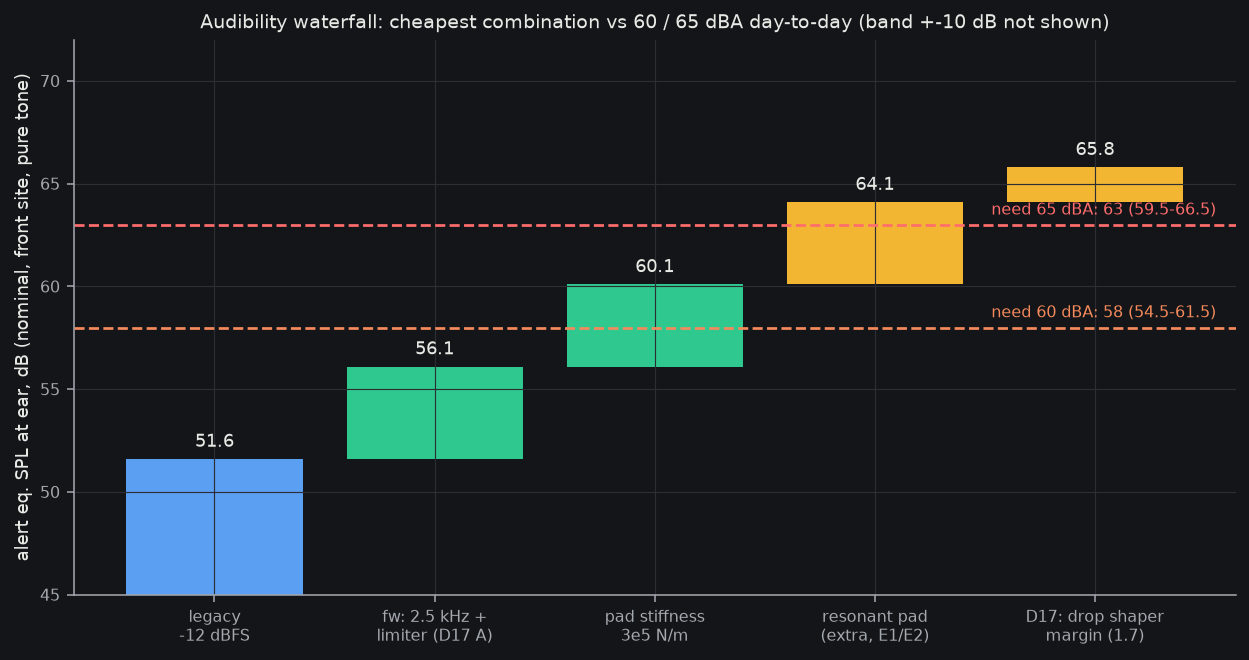
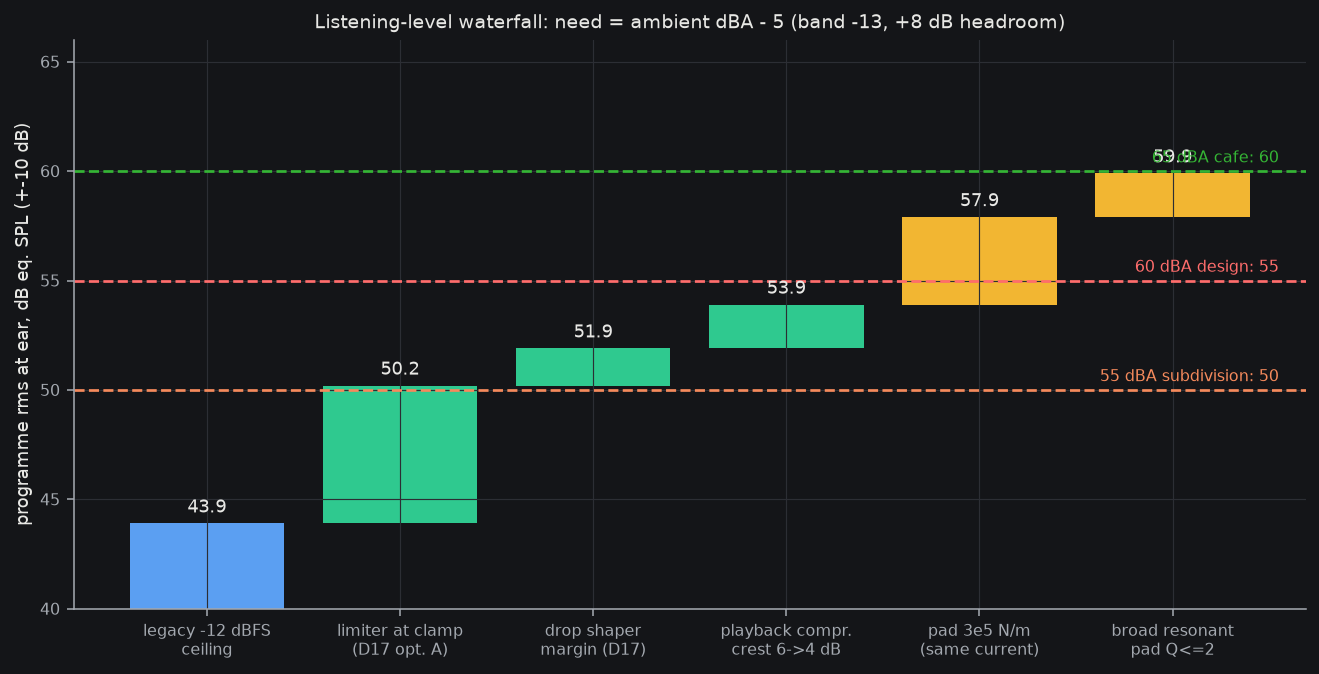
Audibility requirement reframed to audio playback: clean listening level vs ambient, headroom target, combination
Claude-Session: https://claude.ai/code/session_01Wg997D6KFs8bxoAH56jZZJ

Changed region(s): [[0.0, 0.0606, 0.9992, 0.9697], [0.1561, 0.0, 0.8743, 0.0606]]

diff --git a/docs/proof/electrical/audibility_waterfall.py b/docs/proof/electrical/audibility_waterfall.py
@@ -1,16 +1,16 @@
-"""dB waterfall: delivered alert eq. SPL (front site, nominal, pure tone) vs required for 60/65 dBA. Numbers: audibility-requirement.md."""
+"""dB waterfall for AUDIO PLAYBACK (programme rms at the ear, eq. SPL, nominal front site, 2.5 kHz-class). Numbers: audibility-requirement.md."""
 import sys, pathlib
 sys.path.insert(0, str(pathlib.Path(__file__).parents[3] / "tools"))
 import plotstyle; plotstyle.apply(); from plotstyle import plt, SERIES, TEXT, TEXT_2
-steps = [("legacy\n-12 dBFS", 51.6), ("fw: 2.5 kHz +\nlimiter (D17 A)", 4.5), ("pad stiffness\n3e5 N/m", 4.0), ("resonant pad\n(extra, E1/E2)", 4.0), ("D17: drop shaper\nmargin (1.7)", 1.7)]
-fig, ax = plt.subplots(figsize=(9, 4.8)); cum = 0; x = 0
+steps = [("legacy -12 dBFS\nceiling", 43.9), ("limiter at clamp\n(D17 opt. A)", 6.3), ("drop shaper\nmargin (D17)", 1.7), ("playback compr.\ncrest 6->4 dB", 2.0), ("pad 3e5 N/m\n(same current)", 4.0), ("broad resonant\npad Q<=2", 2.0)]
+fig, ax = plt.subplots(figsize=(9.5, 4.9)); cum = 0
 for i, (n, v) in enumerate(steps):
     if i == 0: ax.bar(i, v, color=SERIES[0]); cum = v
-    else: ax.bar(i, v, bottom=cum, color=SERIES[2] if i < 3 else SERIES[3]); cum += v
-    ax.text(i, cum + .6, f"{cum:.1f}", ha="center", color=TEXT, fontsize=9)
-for lvl, lab, c in ((58, "need 60 dBA: 58 (54.5-61.5)", SERIES[1]), (63, "need 65 dBA: 63 (59.5-66.5)", SERIES[7])):
-    ax.axhline(lvl, color=c, ls="--"); ax.text(len(steps) - .45, lvl + .5, lab, color=c, ha="right", fontsize=8)
+    else: ax.bar(i, v, bottom=cum, color=SERIES[2] if i < 4 else SERIES[3]); cum += v
+    ax.text(i, cum + .5, f"{cum:.1f}", ha="center", color=TEXT, fontsize=9)
+for lvl, lab, c in ((50, "55 dBA subdivision: 50", SERIES[1]), (55, "60 dBA design: 55", SERIES[7]), (60, "65 dBA cafe: 60", SERIES[5])):
+    ax.axhline(lvl, color=c, ls="--"); ax.text(len(steps) - .45, lvl + .4, lab, color=c, ha="right", fontsize=8)
 ax.set_xticks(range(len(steps))); ax.set_xticklabels([s[0] for s in steps], fontsize=8, color=TEXT_2)
-ax.set_ylim(45, 72); ax.set_ylabel("alert eq. SPL at ear, dB (nominal, front site, pure tone)")
-ax.set_title("Audibility waterfall: cheapest combination vs 60 / 65 dBA day-to-day (band +-10 dB not shown)")
+ax.set_ylim(40, 66); ax.set_ylabel("programme rms at ear, dB eq. SPL (+-10 dB)")
+ax.set_title("Listening-level waterfall: need = ambient dBA - 5 (band -13, +8 dB headroom)")
 fig.tight_layout(); fig.savefig(pathlib.Path(__file__).with_name("audibility_waterfall.png"), dpi=140, facecolor=fig.get_facecolor())

diff --git a/docs/proof/electrical/audibility-requirement.md b/docs/proof/electrical/audibility-requirement.md
@@ -1,42 +1,46 @@
-# Audibility requirement: "audible in a subdivision and in day-to-day life" (2026-10-08)
-Owner ruling #3. All sources tagged [recall] = from memory, NOT re-fetched this session (no web check run); verify before citing outside the repo. Repo numbers [repo].
+# Audibility requirement for AUDIO PLAYBACK in day-to-day life (2026-10-08, rewritten after owner correction)
+Owner: "it's an audio device not an alert system." The device plays the shifted/compressed ultrasonic scene as listening audio (spec §1.1; DSP chain ends `volume -> safety ceiling` at 12.5 kS/s, spec L66). The 2-3 kHz alert-tone move (`alert_hz`) is system-sound only and is NOT counted here. Sources: [repo] = read today; [recall] = from memory, not re-fetched (no web check run), verify before external citation.
 
 ## 1. Requirement
-**Design ambient 60 dBA (daytime, A-weighted). Alert in-band level at the ear >= ambient band level + 12.5 dB. Delivered need = 58 dB eq. SPL central (band 54.5-61.5), pure-tone 2.5 kHz alert.** Stretch tier 65 dBA (cafe, car): need 63 (59.5-66.5). Busy arterial (70+ dBA) stays out of scope: not day-to-day for a subdivision walk; covered by the haptic option (I-010).
+**Design ambient 60 dBA (daytime). Programme (playback) rms at the ear >= ambient dBA - 5 = 55 dB eq. SPL, clean (THD+N <= -40 dB), central estimate, +-10 dB.** Stretch 65 dBA (cafe/shop): 60. Subdivision walk at 55 dBA: 50. Car (65-72) and arterial street are out of scope.
 
-| Place | Level (dBA) | Source |
-|---|---|---|
-| Residential outdoor, daytime, target | 55 Ldn/Leq (activity interference) | US EPA "Levels Document" 1974 (EPA 550/9-74-004) [recall] |
-| Same, WHO | 55 serious / 50 moderate annoyance, 16 h daytime outdoor | WHO Guidelines for Community Noise 1999 [recall] |
-| Subdivision with passing cars | 50-60 Leq, passing car 60-70 LAmax at ~10 m | typical measured; ISO 1996-1:2016 method [recall] |
-| Office | 45-55 (open plan to 60) | ASHRAE Handbook Applications ch.48 NC/RC tables; open-plan studies [recall] |
-| Cafe / shop | 60-70 | restaurant measurement studies (e.g. Rindel; Lombard-effect literature) [recall] |
-| Car interior, 90-110 km/h | 65-72 | cabin measurements, widely reported [recall] |
-=> 60 dBA covers subdivision + office + shop; 65 covers cafe/car. A pure-tone alert is far more detectable than the noise models here say (tone-in-noise masked threshold is band level -3..+3 dB, R-loudness-conflict item 5), so 12.5 over band is conservative.
-**Margin target 12.5 dB:** ISO 7731:2003 (danger signals for work places) wants the signal >= 13 dB above ambient A-level (>= 10 dB in octave bands) [recall]; the repo's 10-15 guidance is the same family [repo: loudness.md]. Band tilt: ambient band = dBA - 11 (proof, conservative) to -18 (traffic typical, B-loud); need = dBA + 1.5 (conservative) to dBA - 5.5. Central -13 gives 60 -> 58.
+Ambient places (dBA): residential outdoor day 50-55 (EPA Levels Document 1974, EPA 550/9-74-004; WHO Community Noise 1999: 55 serious / 50 moderate annoyance) [recall]; subdivision with passing cars 50-60 Leq, passing car 60-70 LAmax [recall, ISO 1996-1:2016 method]; office 45-55, open plan to 60 (ASHRAE Applications ch.48) [recall]; cafe/shop 60-70 (restaurant measurement studies, Lombard literature) [recall]; car 65-72 at highway speed [recall].
 
-## 2. Verdict re-run (loudness_fw.py chain + R-loudness-conflict corrected estimate)
-`loudness_fw.py` nominal, front site, band mean 2-3 kHz: legacy -12 dBFS 51.6 dB eq. SPL; after (tone 2.5 kHz + limiter at clamp) **56.1** (= conflict doc's 58 central minus the 1.7 dB shaper margin; band about 46-66).
-| Ambient | need (central, band) | fw-after margin (central, band) |
-|---|---|---|
-| 50 office | 52 (48-52.5) | +4 (-6 to +8) |
-| **60 design** | **58 (54.5-61.5)** | **-2 (-15 to +2)** |
-| 65 stretch | 63 (59.5-66.5) | -7 (-20 to -3) |
-| 70 street | 68 (64.5-71.5) | -12 (-25 to 0) |
-Firmware alone passes 50 dBA and fails 60. Bat chirps run 3-12 dB under pure-tone level [repo]; this requirement is the alert tone.
+**Listening headroom (replaces the 10-15 dB alert rule):** the programme must sit about +8 dB (range +4 to +10) over the ambient in the same 1.5-4 kHz band. Basis [recall]: preferred listening levels in noise sit about 6-10 dB over the background (Airo et al. 1996, Hodgetts et al. 2007 Ear & Hearing); real-life listening SNRs about +5 to +10 dB (Smeds et al. 2015 JAAA); sentence intelligibility is near ceiling by about +4 to +6 dB SNR (Plomp 1986; ANSI S3.5 SII). +4 = "follows it", +8 = target, +10 = enjoyable. Ambient in band = dBA - 13 (range -11 proof, -18 traffic typical). So need = dBA - 13 + 8 = **dBA - 5** (range dBA - 9 to dBA + 0).
 
-## 3. Cheapest combination (nominal chain; dB cumulative)
+## 2. Max CLEAN level at her ear (repo chain; central 2.5 kHz, nominal, front site)
+Force at the 208 mA clamp (0.635 of Vdd diff): 94.5 dB re 1 uN; corrected central eq. SPL **58** for a full-scale sine (R-loudness-conflict, band 48-68).
+| Ceiling | Peak (sine) eq. SPL | Programme rms (crest 6 dB; chirps are 3-12 dB under sine [repo]) | THD+N [repo C3-output-stage.md] |
+|---|---|---|---|
+| -12 dBFS (D17 now, 0.251) | 49.9 | **43.9** | -52 dB @12.5 ns dead time; -38 @25 ns (no compensation) |
+| limiter at clamp minus shaper excursion (0.520, D17 option A, `lim_lookahead=1`) | 56.3 | **50.3** | not modelled: model stops at -12 dBFS; signal current 2.1x larger, dead-time error grows with level (-61 @-40 dBFS to -52 @-12), my extrapolation -45 +-5 dB (assumed) |
+| clamp itself (0.635) | 58 | 52 | extrapolated -43 +-5 |
+"Clean" = THD+N <= -40 dB (assumed; the exciter's own distortion is likely larger, C3 note). It passes at 12.5 ns dead time, fails at 25 ns uncompensated at the ceiling (-38). Bench: THD at the clamp on the real bridge (E-series current probe + FFT), not modelled.
+
+## 3. Verdict vs ambient (programme rms, margin = delivered - need)
+| Ambient | Band | Need (+8; +4..+10) | Legacy -12 dBFS 43.9 | Limiter 50.3 |
+|---|---|---|---|---|
+| Quiet room 35 | 22 | 30 | +14 | +20 |
+| Office 50 | 37 | 45 (41-47) | -1 (+3..-3) | +5 (+9..+3) |
+| Subdivision 55 | 42 | 50 (46-52) | -6 (-2..-8) | **+0 (+4..-2)** |
+| **Design 60** | 47 | **55 (51-57)** | -11 | **-5 (-1..-7)** |
+| Cafe/shop 65 | 52 | 60 (56-62) | -16 | -10 (-6..-12) |
+Honest read: today's -12 dBFS ceiling gives quiet room and a quiet office only. The limiter makes office comfortable and a 55 dBA subdivision just adequate; 60 dBA and beyond need force-per-amp, not more current (current is pinned by the clamp and the THD ceiling).
+
+## 4. Cheapest combination (cumulative programme rms, central)
 ![waterfall](audibility_waterfall.png)
-| # | Step | dB | Cost | Size | Thermal (U4 LDO, cell at 208 mA clamp) | Bench |
+| # | Step | dB | Cost | Size | Thermal / battery | Bench |
 |---|---|---|---|---|---|---|
-| 0 | Baseline legacy -12 dBFS | 51.6 | 0 | 0 | n/a | none |
-| 1 | `lim_lookahead=1`, `alert_hz=2500` (fbfb38b; D17 option A, ceiling = clamp - shaper 0.5203) | +4.5 -> 56.1 | 0, firmware | 0 | 300 ms burst at clamp: U4 +0.3 to +3 K (tau assumed); continuous bound +33 K never reached; cell stays within the 260 mA pulse rule (clamp 208) | re-sign golden vectors + D17 ceiling (owner); U4 temp log (PWR-I12) |
-| 2 | Pad stiffness 3e5 N/m (loudness.md lever 3, model) | +4 -> 60.1 | ~0 (pad durometer/geometry) | 0 | none | E1 force vs drive on a 1 N preload fixture |
-| **= meets 60 dBA** | | **+2 central over need** | | | | **masked detection test on her (conflict doc)** |
-| 3 | Resonant pad/exciter tuned to 2-3 kHz (Q 1.5-8) | +4 more of 6-10 -> 64.1 | ~0 to small tooling | 0 | none (same current) | E1/E2 sweep; f0 of loaded pad |
-| 4 | D17: let limiter ceiling go to the clamp itself (drop 1.7 dB shaper margin) | +1.7 -> 65.8 | 0 | 0 | none (clamp unchanged) | prove shaper never exceeds clamp (fwsim) |
-=> **Meets 65 dBA at +2.8 central with steps 1+2+3+4; all free or near-free, zero size.**
-Rejected or deferred: raising the clamp to 270 mA (+2.3 dB) breaks the cell 260 mA rule; 12 ohm exciter gives no volume (loudness.md fix 2); BCE-1 swap (R-exciter): Bl unpublished, 0..+6 dB without basis, +1.4 mm thickness against O27 thin-first, buy one only for E1 Bl measurement; BCT-3 (+12.9 dB, 44x32 mm) does not fit; pad on tragus (conflict item 3): 0..+5 dB, comfort cost, D1 site change. Tragus 10 dB bonus and B-loud +15.5 dB are not supportable (conflict doc).
+| 0 | Legacy -12 dBFS | 43.9 | - | - | - | - |
+| 1 | `lim_lookahead=1` (fbfb38b; D17 option A) | +6.3 -> 50.2 | 0, fw | 0 | current doubles for +6 dB (see below) | owner re-signs golden vectors + D17; THD at the ceiling |
+| 2 | D17: ceiling = clamp (drop 1.7 dB shaper margin) | +1.7 -> 52.0 | 0 | 0 | +1.7 dB current | fwsim: shaper never exceeds clamp; THD |
+| 3 | Playback compression: crest 6 -> 4 dB (log-compression mode B is already the intended main mode, spec L222; limiter-aware makeup) | +2 -> 54.0 | 0, fw tuning | 0 | rms current up 2 dB | listening test: pumping/artifacts |
+| 4 | Pad stiffness 3e5 N/m (loudness.md lever 3) | +4 -> 58.0 | ~0 (durometer/geometry) | 0 | **lowers** current for equal level | E1 force vs drive, 1 N preload |
+| 5 | Broad resonant pad, Q <= 2 (narrow Q colours playback) | +2 -> 60.0 | small tooling | 0 | as 4 | E1/E2 sweep |
+| opt | Exciter with more Bl (Aeropex-class model says 0-7 dB, BCE-1 0-6 unproven +1.4 mm thick) | 0..+7 | buy 1 for E1 (O21: bench only) | O27 conflict | as 4 | measure Bl first |
+=> **Minimal: steps 1+2+3+4 = 58.0 vs 55 need at 60 dBA (+3, band -7..+13). Meets subdivision/office/shops at 60 dBA; 65 dBA cafes need step 5 (60.0) plus luck or Bl.** Rejected: clamp to 270 mA (+2.3 dB, breaks the 260 mA cell pulse rule, worse THD); 12 ohm (no volume); BCT-3 (44x32 mm, does not fit); B-loud's +15.5 and tragus 10 dB bonus (conflict doc).
 
-## 4. Honest uncertainty
-Band is +-10 dB (threshold SD 6-9, Bl 1 N/A assumed, model may be 0-7 dB low: Aeropex anchor [repo]). Steps 1+2 give 60 dBA only at central; a 12 dB-wider real distribution means roughly even odds. Step 3 is the margin that makes 60 dBA robust (+6 vs central need at 60, i.e. 66.5 vs 54.5-61.5 upper). The single deciding bench measurement: masked detection threshold on her at the D1 site under a 60-65 dBA recording, logging drive current and pad force (E1). If detection current < 0.15 A rms at 65 dBA the requirement is met with step 1 alone.
+**Thermal / battery at the clamp (docs/proof/thermal row 8):** rms playback current at 50.3 dB (6 dB under the 147 mA clamp sine) is about 74 rms, ~60 mA mean|i| from the 3.0 V LDO U4: ~72 mW at 1.2 V drop docked, +12 K at theta-JA 166 K/W (cap 125 C: fine). The problem is runtime: the rail budget carries 2.5 mA average for the exciter; sustained loud playback at 60 mA with ~9 mA base is ~2 h on a 130 mAh cell. Each +6 dB of force per amp (steps 4-5, Bl) halves that current, which is the second reason to prefer force-per-amp levers over more drive. Cell stays inside its 260 mA pulse rule (clamp 208).
+
+## 5. Open (bench)
+(a) THD+N at the clamp on the real bridge; (b) force vs current, pad stiffness, Bl (E1); (c) masked-listening test on her: scene playback under 55/60/65 dBA recordings, adaptive level to "comfortable", logging drive current; one afternoon settles the +8 target, the band tilt and eq. SPL uncertainty (+-10 dB) together; (d) program crest of real bat/house material; (e) U4 temp and battery current log (PWR-I12).
